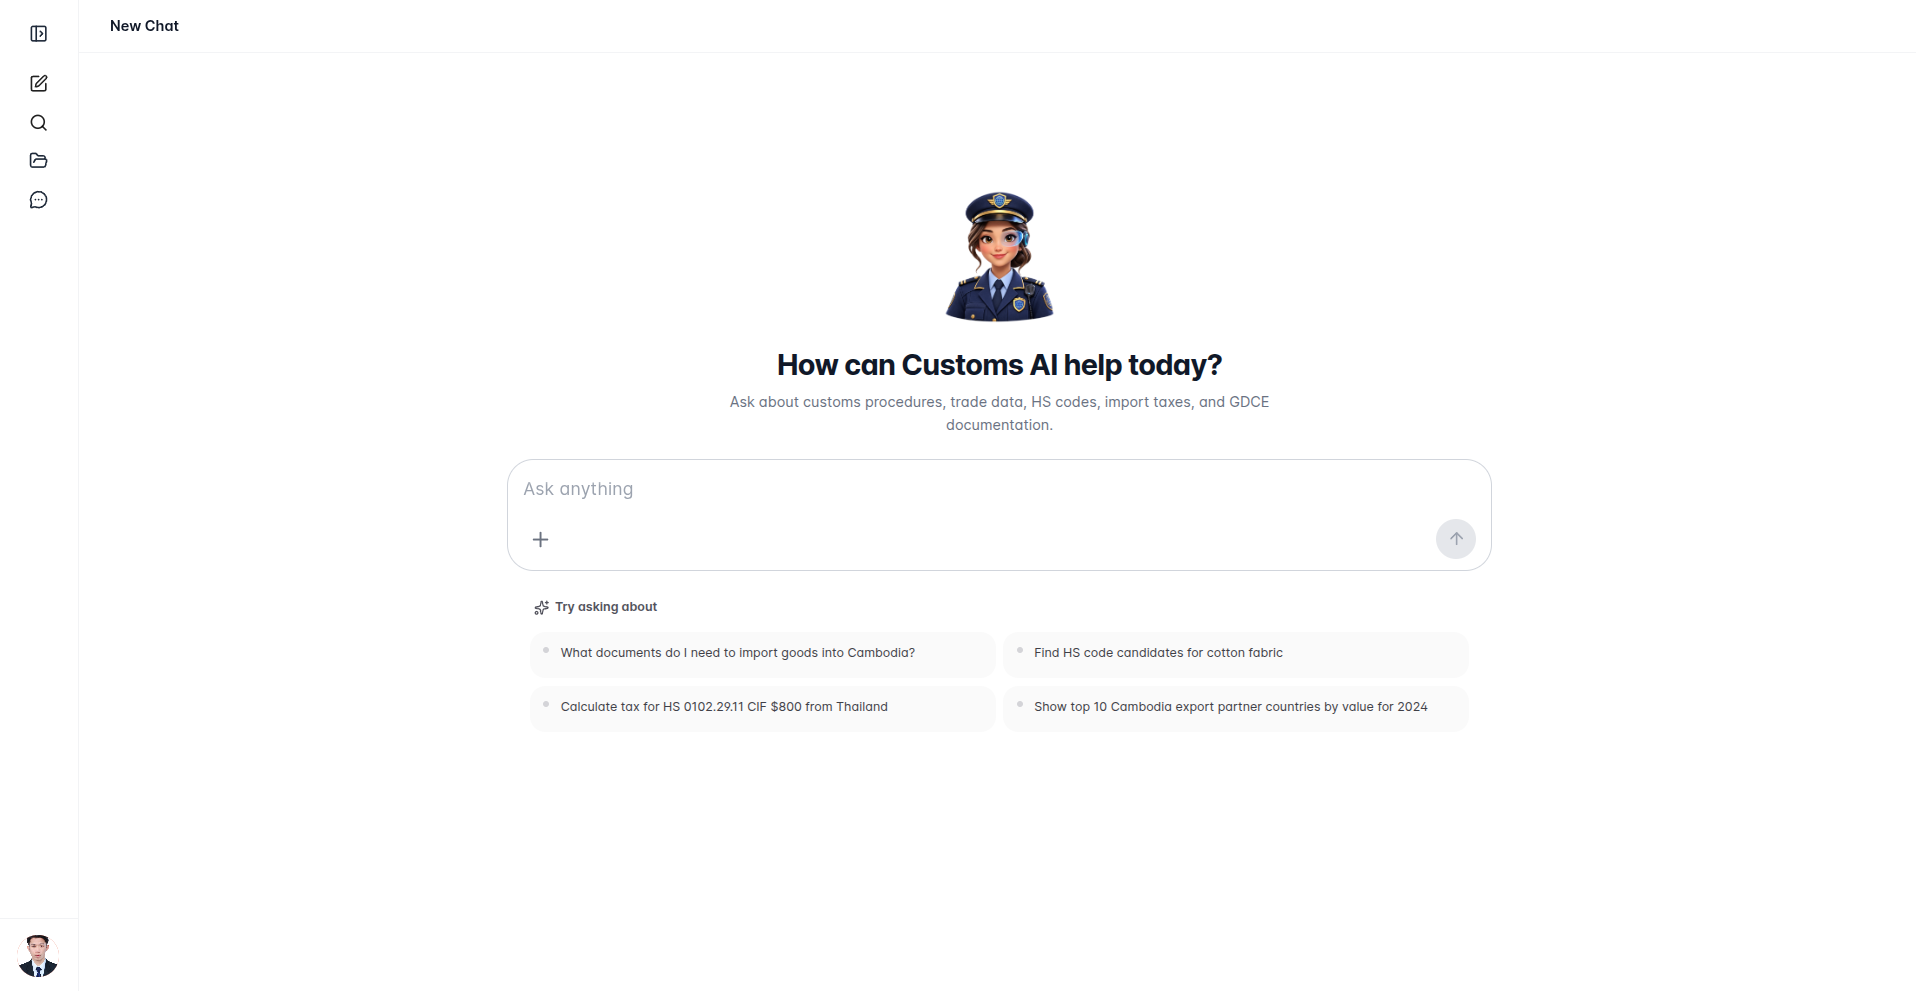
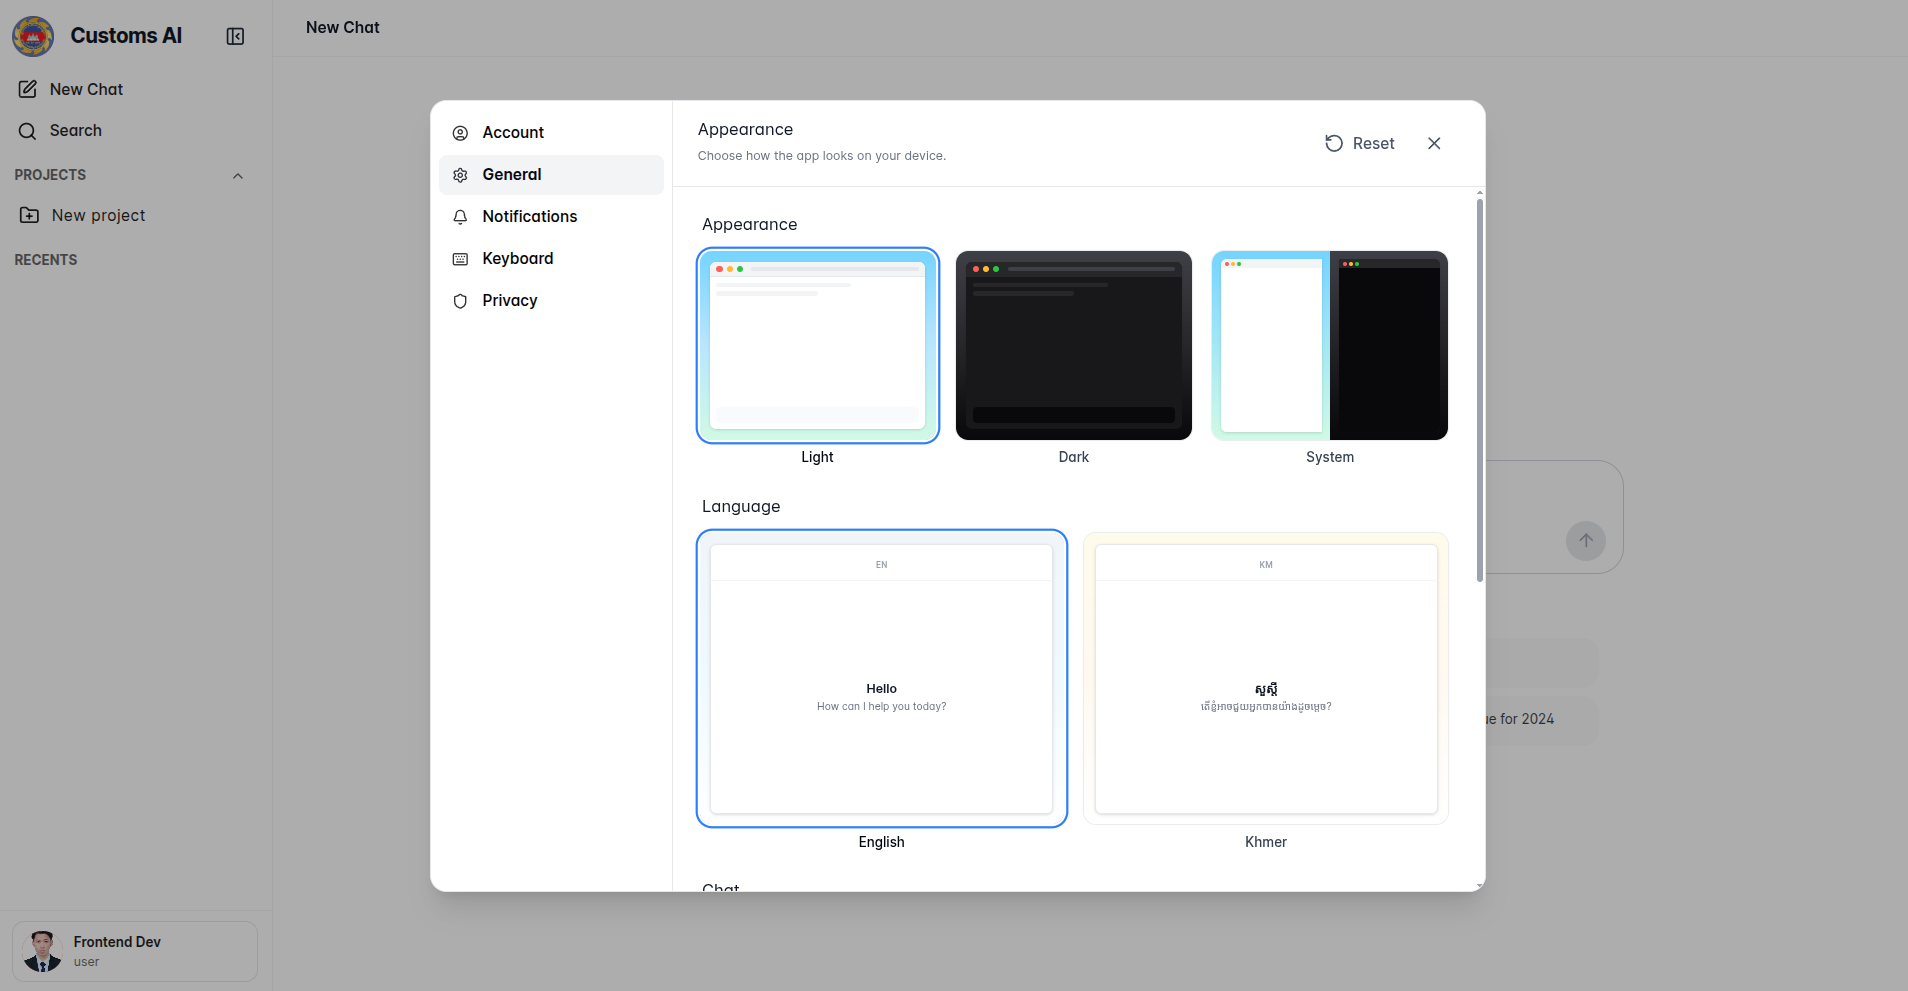
docs: refresh product screenshots

diff --git a/README.md b/README.md
@@ -6,10 +6,17 @@ Built as a portfolio-scale system rather than a single chat UI, the repository i
 
 ## Product at a Glance
 
-| HS-code workspace | Welcome experience |
-| --- | --- |
-| ![Laptop HS-code result with a ranked table and source panel](docs/images/hs-code-laptop-result.png) | ![Customs AI welcome screen with suggested customs workflows](docs/images/chat-welcome-screen.png) |
-| **HS-code workflow.** A ranked customs-code result, source panel, follow-up prompts, and persistent chat navigation. | **Guided welcome experience.** The new-chat screen introduces common customs questions, including documentation, HS-code, duty, and trade-data requests. |
+### HS-code workspace
+
+<img src="docs/images/hs-code-laptop-result.png" alt="Laptop HS-code result with a ranked table and source panel" width="900" />
+
+**HS-code workflow.** A ranked customs-code result, source panel, follow-up prompts, and persistent chat navigation.
+
+### Portfolio settings
+
+<img src="docs/images/chat-welcome-screen.png" alt="Customs AI desktop settings with appearance and language preferences" width="900" />
+
+**Personalized settings.** Configure appearance, language, chat, notification, keyboard, and privacy preferences from one desktop settings panel.
 
 | Mobile HS-code workflow | Mobile document guidance |
 | --- | --- |
